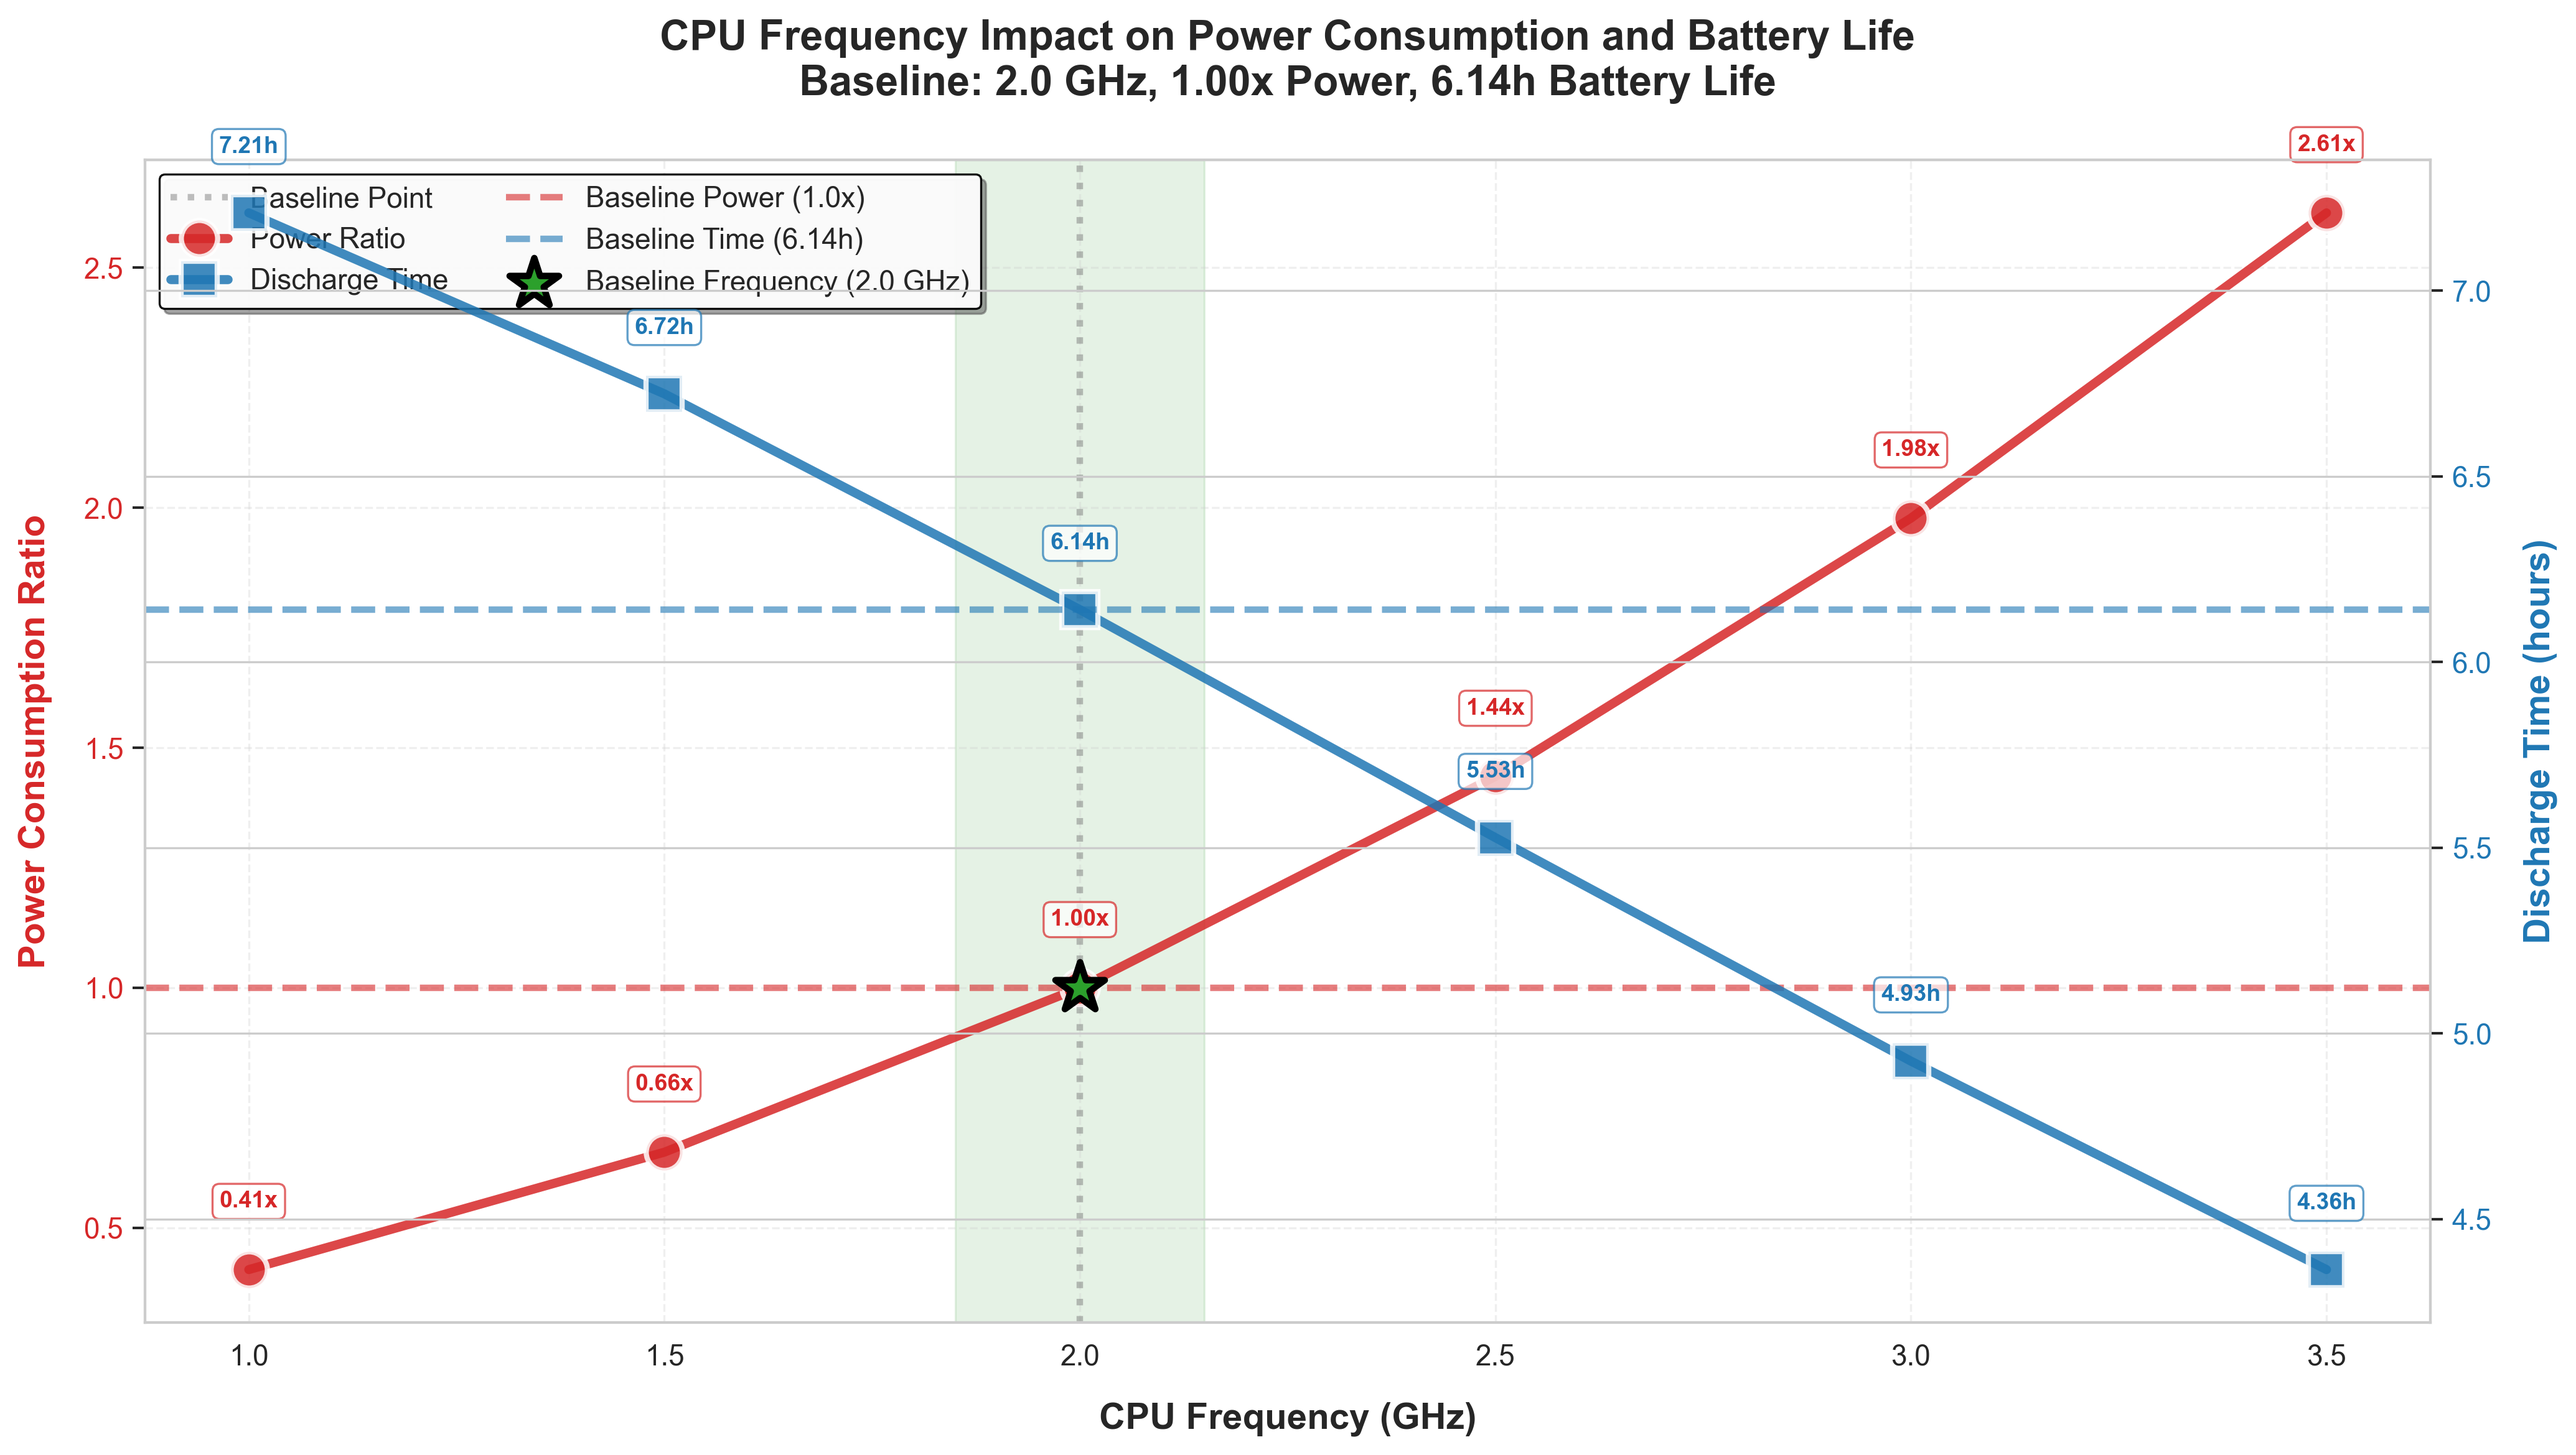
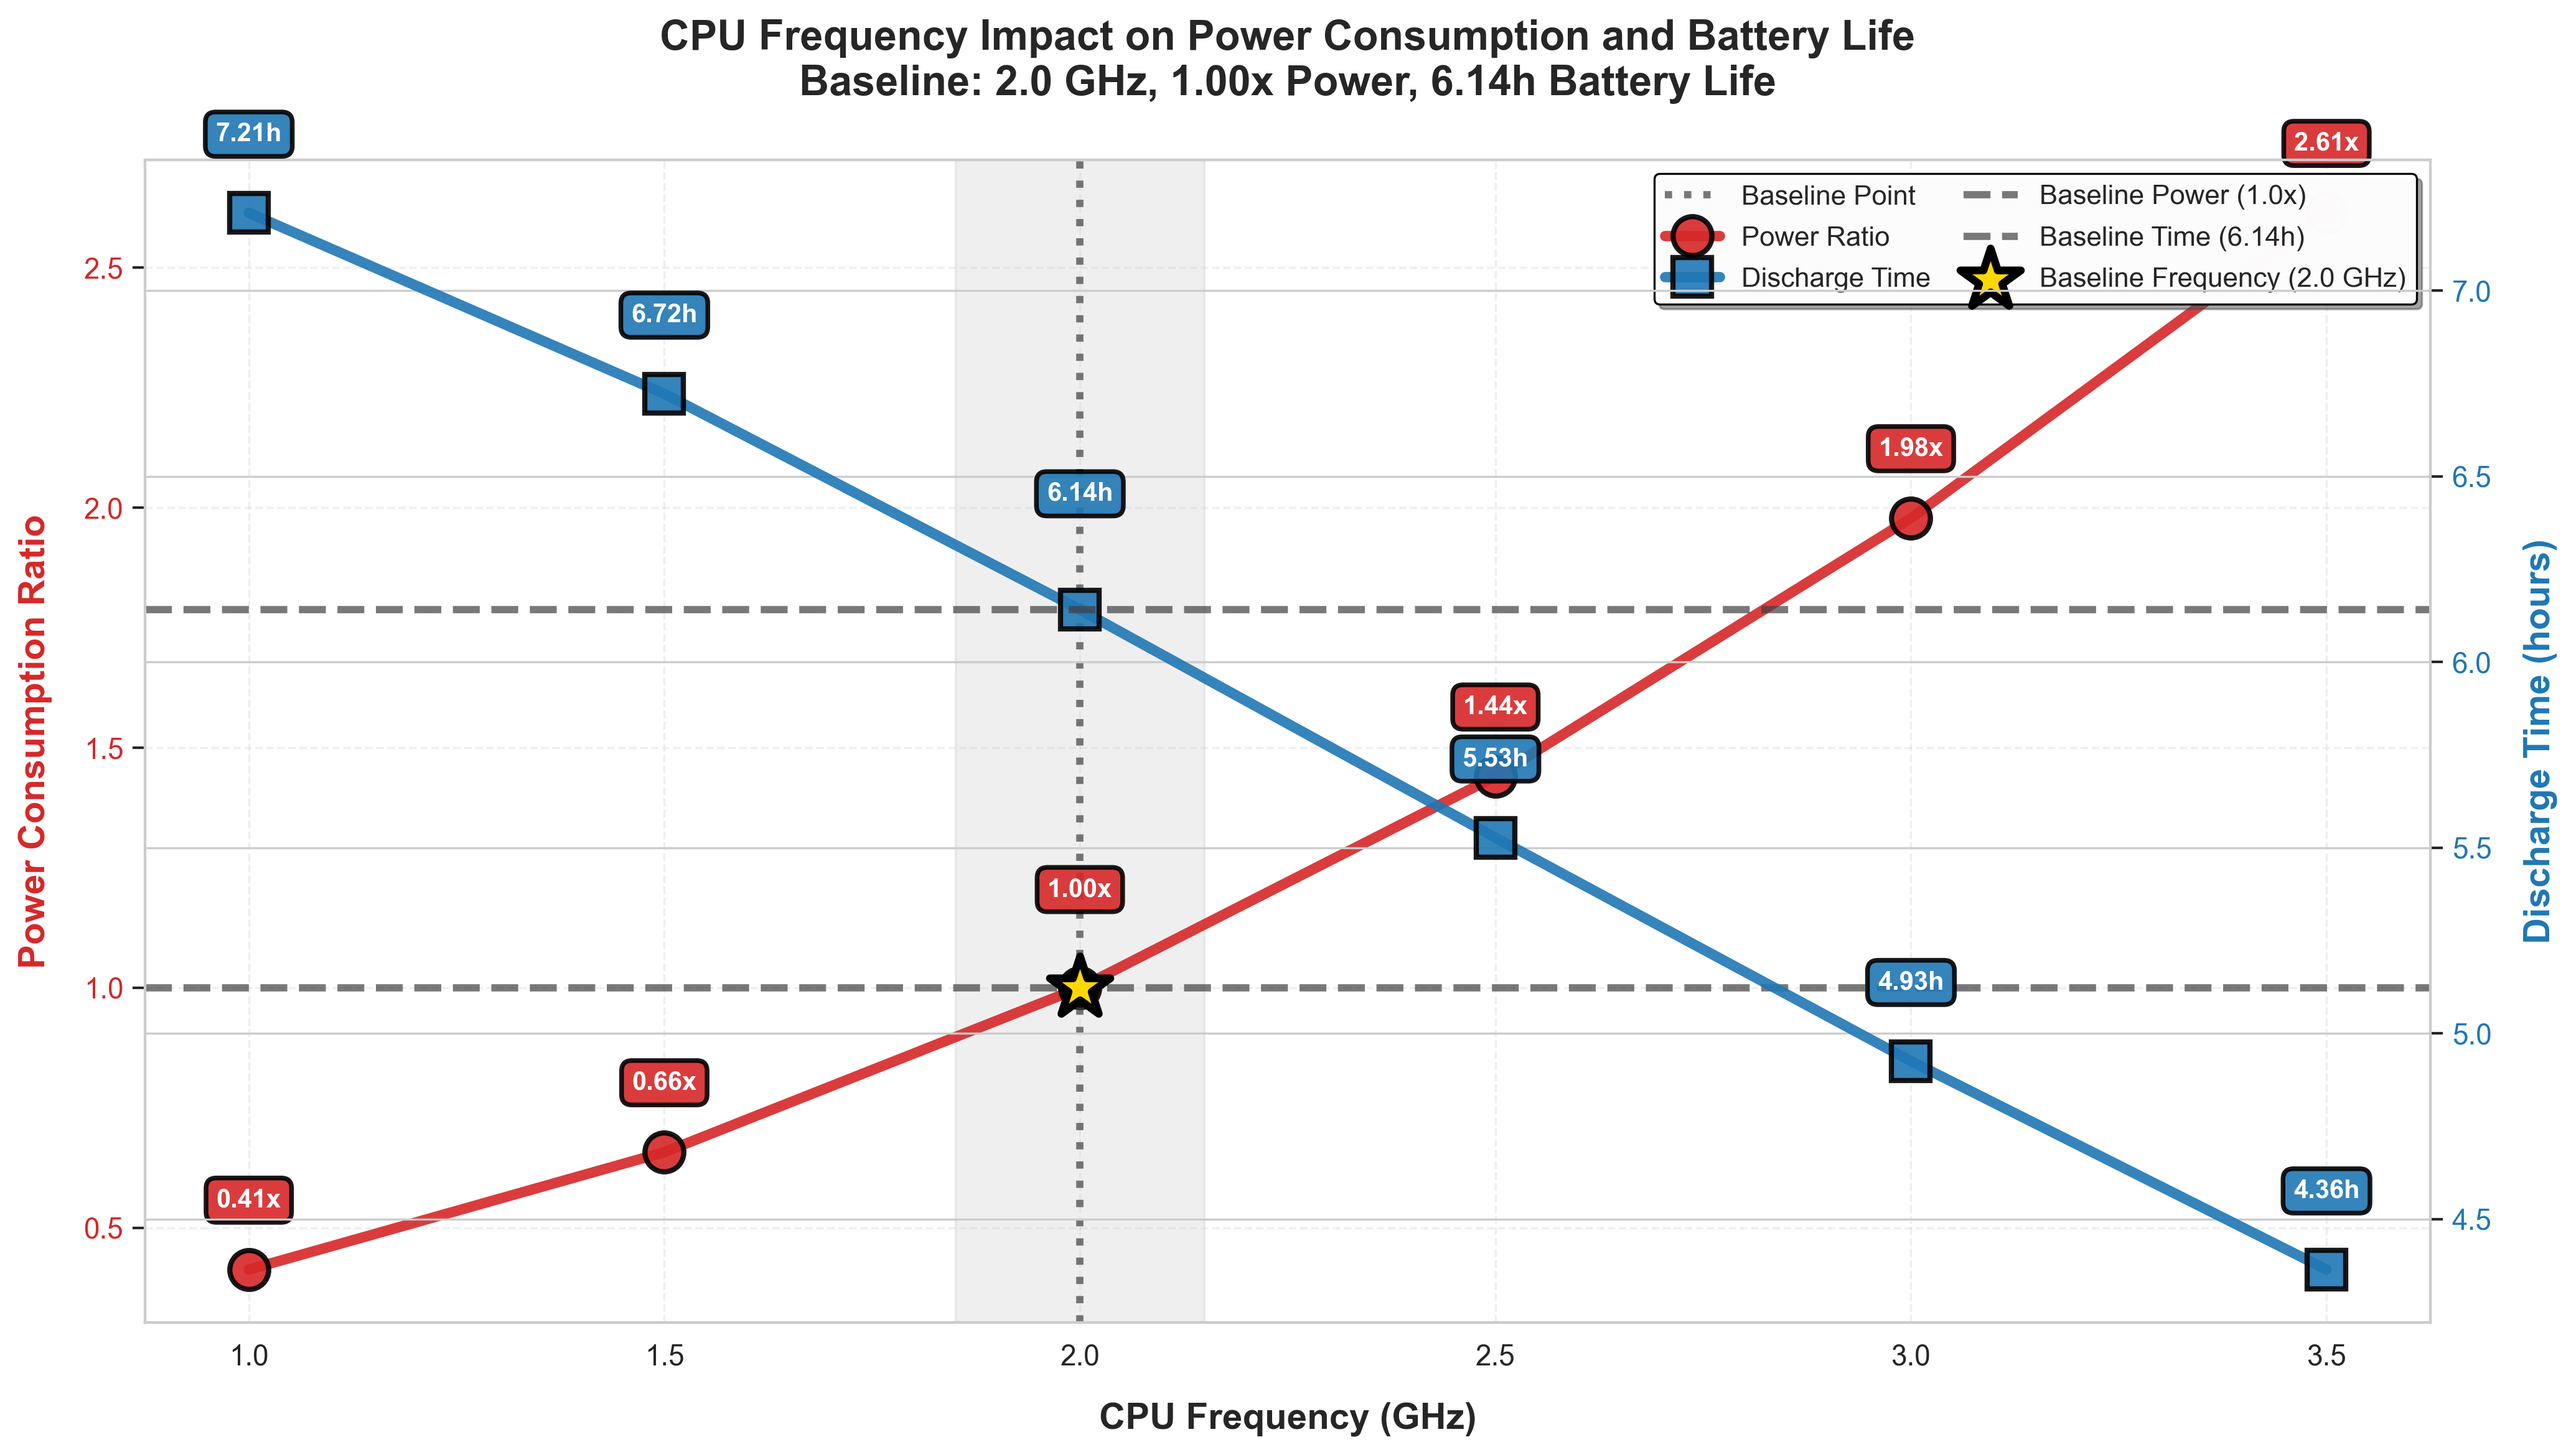
modify

diff --git a/问题2/cpu_frequency_analysis.py b/问题2/cpu_frequency_analysis.py
@@ -192,90 +192,102 @@ def create_visualizations(df, baseline_power, baseline_freq):
     # 设置Seaborn风格
     sns.set_style("whitegrid")
     
-    # 第一个Y轴 - 功耗倍数 (红色系)
-    color1 = '#d62728'  # Seaborn 红色
+    # 使用深色调专业配色方案（科研美赛标准）
+    color1 = '#d62728'  # 深红色 - 功耗（深色暖色调，代表警示/能耗）
+    color2 = '#1f77b4'  # 深蓝色 - 续航（深色冷色调，代表稳定/持久）
+    baseline_color = '#7f7f7f'  # 深灰色 - 基准点（中性专业色）
+    baseline_line_color = '#404040'  # 更深的灰色 - 基准线
+    
+    # 第一个Y轴 - 功耗倍数 (深红色系)
     ax1.set_xlabel('CPU Frequency (GHz)', fontsize=14, fontweight='bold', labelpad=12)
     ax1.set_ylabel('Power Consumption Ratio', fontsize=14, fontweight='bold', 
                    labelpad=12, color=color1)
     
     # 绘制功耗倍数曲线
     line1 = ax1.plot(df['CPU_Frequency'], df['Power_Ratio'], 
-                     marker='o', linewidth=3.5, markersize=14,
-                     color=color1, alpha=0.85, label='Power Ratio',
-                     markeredgecolor='white', markeredgewidth=2)
+                     marker='o', linewidth=4, markersize=15,
+                     color=color1, alpha=0.9, label='Power Ratio',
+                     markeredgecolor='black', markeredgewidth=2)
     
     # 功耗倍数基准线 (水平线)
-    ax1.axhline(y=baseline_power_ratio, color=color1, linestyle='--', 
-                linewidth=2.5, alpha=0.6, label=f'Baseline Power (1.0x)')
+    ax1.axhline(y=baseline_power_ratio, color=baseline_line_color, linestyle='--', 
+                linewidth=2.8, alpha=0.7, label=f'Baseline Power (1.0x)')
     
     # 功耗倍数基准点 (垂直线)
-    ax1.axvline(x=baseline_freq, color='#7f7f7f', linestyle=':', 
-                linewidth=2.5, alpha=0.5, label=f'Baseline Frequency ({baseline_freq} GHz)')
-    
-    # 标注基准交叉点
-    ax1.scatter([baseline_freq], [baseline_power_ratio], 
-               s=400, color='#2ca02c', marker='*', 
-               edgecolor='black', linewidth=2.5, zorder=10,
-               label='Baseline Point')
+    ax1.axvline(x=baseline_freq, color=baseline_line_color, linestyle=':', 
+                linewidth=2.8, alpha=0.7, label=f'Baseline Frequency ({baseline_freq} GHz)')
     
     # 添加功耗倍数数值标签
     for _, row in df.iterrows():
-        ax1.text(row['CPU_Frequency'], row['Power_Ratio'] + 0.12, 
+        y_offset = 0.12 if row['CPU_Frequency'] != baseline_freq else 0.18
+        ax1.text(row['CPU_Frequency'], row['Power_Ratio'] + y_offset, 
                 f"{row['Power_Ratio']:.2f}x",
-                ha='center', va='bottom', fontsize=9, fontweight='bold',
-                color=color1, bbox=dict(boxstyle='round,pad=0.3', 
-                                       facecolor='white', alpha=0.7, edgecolor=color1))
+                ha='center', va='bottom', fontsize=10, fontweight='bold',
+                color='white', 
+                bbox=dict(boxstyle='round,pad=0.4', 
+                         facecolor=color1, alpha=0.9, 
+                         edgecolor='black', linewidth=1.8))
     
     ax1.tick_params(axis='y', labelcolor=color1, labelsize=11)
     ax1.tick_params(axis='x', labelsize=11)
     ax1.grid(True, alpha=0.3, linestyle='--', linewidth=0.8)
     ax1.set_axisbelow(True)
     
-    # 第二个Y轴 - 放电时间 (蓝色系)
+    # 第二个Y轴 - 放电时间 (绿色系)
     ax2 = ax1.twinx()
-    color2 = '#1f77b4'  # Seaborn 蓝色
     ax2.set_ylabel('Discharge Time (hours)', fontsize=14, fontweight='bold', 
                    labelpad=12, color=color2)
     
     # 绘制放电时间曲线
     line2 = ax2.plot(df['CPU_Frequency'], df['Discharge_Time'], 
-                     marker='s', linewidth=3.5, markersize=14,
-                     color=color2, alpha=0.85, label='Discharge Time',
-                     markeredgecolor='white', markeredgewidth=2)
+                     marker='s', linewidth=4, markersize=15,
+                     color=color2, alpha=0.9, label='Discharge Time',
+                     markeredgecolor='black', markeredgewidth=2)
     
     # 放电时间基准线 (水平线)
-    ax2.axhline(y=baseline_discharge_time, color=color2, linestyle='--', 
-                linewidth=2.5, alpha=0.6, label=f'Baseline Time ({baseline_discharge_time:.2f}h)')
+    ax2.axhline(y=baseline_discharge_time, color=baseline_line_color, linestyle='--', 
+                linewidth=2.8, alpha=0.7, label=f'Baseline Time ({baseline_discharge_time:.2f}h)')
     
     # 添加放电时间数值标签
     for _, row in df.iterrows():
-        ax2.text(row['CPU_Frequency'], row['Discharge_Time'] + 0.15, 
+        y_offset = 0.18 if row['CPU_Frequency'] != baseline_freq else 0.28
+        ax2.text(row['CPU_Frequency'], row['Discharge_Time'] + y_offset, 
                 f"{row['Discharge_Time']:.2f}h",
-                ha='center', va='bottom', fontsize=9, fontweight='bold',
-                color=color2, bbox=dict(boxstyle='round,pad=0.3', 
-                                       facecolor='white', alpha=0.7, edgecolor=color2))
+                ha='center', va='bottom', fontsize=10, fontweight='bold',
+                color='white', 
+                bbox=dict(boxstyle='round,pad=0.4', 
+                         facecolor=color2, alpha=0.9, 
+                         edgecolor='black', linewidth=1.8))
     
     ax2.tick_params(axis='y', labelcolor=color2, labelsize=11)
     
-    # 组合图例 - 优化排列
+    # 标注基准交叉点 - 使用Y1轴的坐标，确保在正确位置
+    ax1.scatter([baseline_freq], [baseline_power_ratio], 
+               s=600, color='gold', marker='*', 
+               edgecolor='black', linewidth=3, zorder=10,
+               label='Baseline Point')
+    
+    # 组合图例 - 移到右上角避免遮挡
     lines1, labels1 = ax1.get_legend_handles_labels()
     lines2, labels2 = ax2.get_legend_handles_labels()
     
-    # 合并图例，按重要性排序
-    all_lines = [lines1[2], lines1[0], lines2[0], lines1[1], lines2[1], lines1[3]]  # 重排顺序
+    # 合并图例，按逻辑顺序排列
+    all_lines = [lines1[2], lines1[0], lines2[0], lines1[1], lines2[1], lines1[3]]
     all_labels = ['Baseline Point', 'Power Ratio', 'Discharge Time', 
                   'Baseline Power (1.0x)', f'Baseline Time ({baseline_discharge_time:.2f}h)', 
                   f'Baseline Frequency ({baseline_freq} GHz)']
     
     ax1.legend(all_lines, all_labels, 
-              loc='upper left', 
+              loc='upper right',  # 改到右上角
               frameon=True, 
               shadow=True, 
-              fontsize=11,
-              framealpha=0.95,
+              fontsize=10.5,
+              framealpha=0.98,
               edgecolor='black',
               fancybox=True,
-              ncol=2)
+              ncol=2,
+              columnspacing=1.2,
+              labelspacing=0.6)
     
     # 设置标题
     ax1.set_title('CPU Frequency Impact on Power Consumption and Battery Life\n' + 
@@ -286,9 +298,9 @@ def create_visualizations(df, baseline_power, baseline_freq):
     ax1.set_xticks(df['CPU_Frequency'])
     ax1.set_xticklabels([f'{freq:.1f}' for freq in df['CPU_Frequency']])
     
-    # 添加背景色块标识基准区域
+    # 添加背景色块标识基准区域 - 使用更柔和的颜色
     ax1.axvspan(baseline_freq - 0.15, baseline_freq + 0.15, 
-                alpha=0.1, color='green', zorder=0)
+                alpha=0.12, color='gray', zorder=0)
     
     plt.tight_layout()
     filename = 'cpu_frequency_dual_axis.png'
